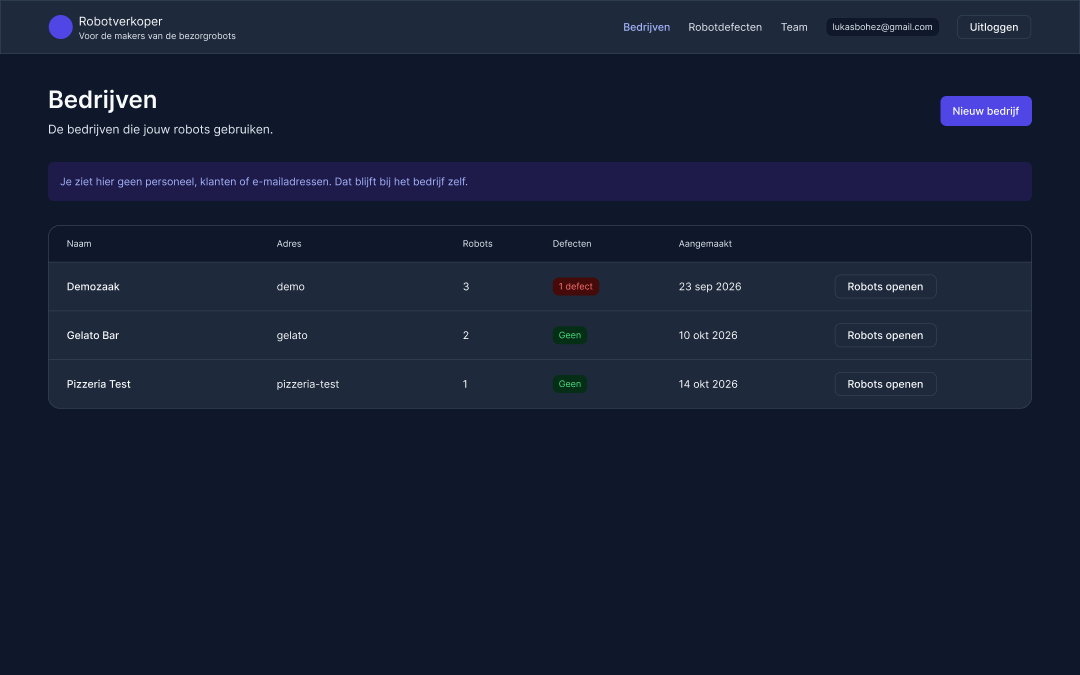
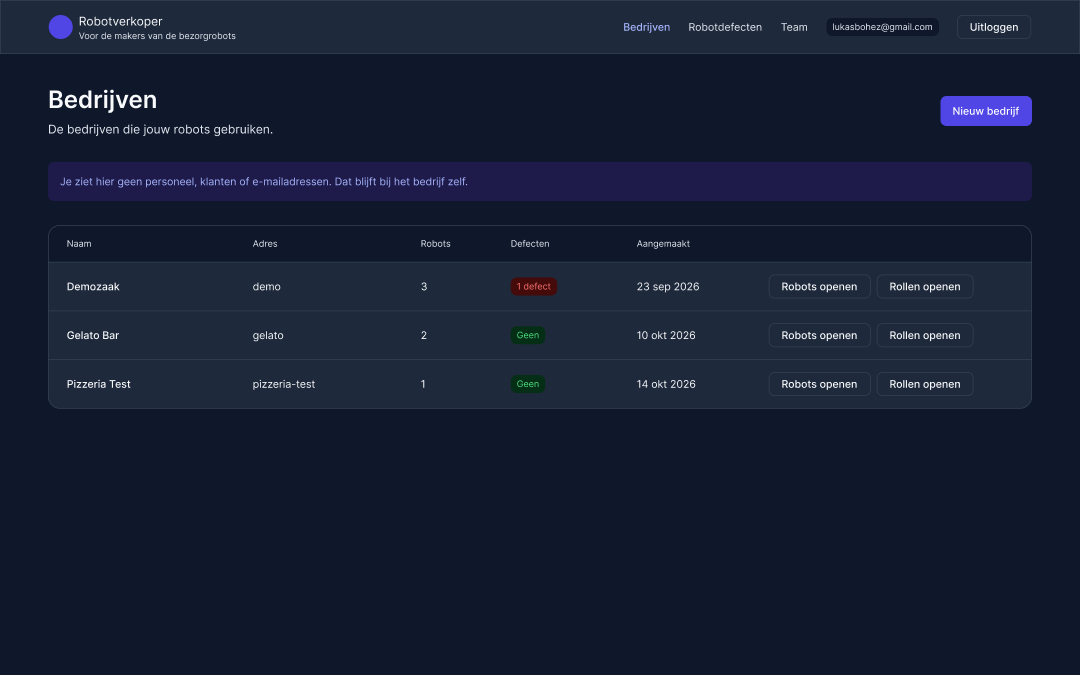
feat(seller-pwa): open the roles of a company from the companies list
The Figma design had a "Robots openen" button per company but no way to the
roles screen. Every company now has a second button, "Rollen openen", in the
table (desktop) and on the card (phone); shown only to a role that may manage
company roles. Design and code now match.

Also: a test that someone who is not logged in sees no menu, e-mail address or
logout (the login screen in Figma has none), and the design exports updated
(login without menu, defect dialog, companies with two buttons, flow text).

diff --git a/seller-pwa/src/views/CompaniesView.vue b/seller-pwa/src/views/CompaniesView.vue
@@ -77,17 +77,30 @@ onMounted(load)
                 </UBadge>
               </td>
               <td class="px-4 py-3">{{ shortDate(company.createdAt, locale) }}</td>
-              <td class="px-4 py-3 text-right">
-                <UButton
-                  :to="{ name: 'company-robots', params: { id: company.id } }"
-                  color="neutral"
-                  variant="outline"
-                  size="sm"
-                  :aria-label="t('companies.openRobots', { name: company.name })"
-                  data-testid="company-robots-link"
-                >
-                  {{ t('companies.open') }}
-                </UButton>
+              <td class="px-4 py-3">
+                <div class="flex justify-end gap-2">
+                  <UButton
+                    :to="{ name: 'company-robots', params: { id: company.id } }"
+                    color="neutral"
+                    variant="outline"
+                    size="sm"
+                    :aria-label="t('companies.openRobots', { name: company.name })"
+                    data-testid="company-robots-link"
+                  >
+                    {{ t('companies.open') }}
+                  </UButton>
+                  <UButton
+                    v-if="me.can('company-roles:manage')"
+                    :to="{ name: 'company-roles', params: { id: company.id } }"
+                    color="neutral"
+                    variant="outline"
+                    size="sm"
+                    :aria-label="t('companies.openRolesOf', { name: company.name })"
+                    data-testid="company-roles-link"
+                  >
+                    {{ t('companies.openRoles') }}
+                  </UButton>
+                </div>
               </td>
             </tr>
           </tbody>
@@ -112,15 +125,30 @@ onMounted(load)
           >
             {{ company.openDefects > 0 ? t('companies.defectCount', company.openDefects) : t('companies.noDefects') }}
           </UBadge>
-          <UButton
-            :to="{ name: 'company-robots', params: { id: company.id } }"
-            color="neutral"
-            variant="outline"
-            block
-            :aria-label="t('companies.openRobots', { name: company.name })"
-          >
-            {{ t('companies.open') }}
-          </UButton>
+          <div class="flex gap-2">
+            <UButton
+              :to="{ name: 'company-robots', params: { id: company.id } }"
+              class="flex-1"
+              color="neutral"
+              variant="outline"
+              block
+              :aria-label="t('companies.openRobots', { name: company.name })"
+            >
+              {{ t('companies.open') }}
+            </UButton>
+            <UButton
+              v-if="me.can('company-roles:manage')"
+              :to="{ name: 'company-roles', params: { id: company.id } }"
+              class="flex-1"
+              color="neutral"
+              variant="outline"
+              block
+              :aria-label="t('companies.openRolesOf', { name: company.name })"
+              data-testid="company-card-roles-link"
+            >
+              {{ t('companies.openRoles') }}
+            </UButton>
+          </div>
         </li>
       </ul>
     </template>

diff --git a/seller-pwa/src/components/__tests__/AppHeader.spec.ts b/seller-pwa/src/components/__tests__/AppHeader.spec.ts
@@ -1,0 +1,73 @@
+import { beforeEach, describe, expect, it, vi } from 'vitest'
+import { mount } from '@vue/test-utils'
+import { piniaWith, routerAt, TECHNICIAN_PERMISSIONS } from '@/test/helpers'
+
+// The session is faked: Firebase is not part of what the header decides
+const session = vi.hoisted(() => ({ user: null as { uid: string; email: string | null } | null }))
+vi.mock('@/stores/auth', () => ({
+  useAuthStore: () => ({
+    get user() {
+      return session.user
+    },
+    get email() {
+      return session.user?.email ?? ''
+    },
+    logout: vi.fn().mockResolvedValue(undefined),
+  }),
+}))
+
+const { i18n } = await import('@/i18n')
+const { default: AppHeader } = await import('../AppHeader.vue')
+
+async function mountHeader() {
+  const router = await routerAt('/')
+  return mount(AppHeader, { global: { plugins: [i18n, piniaWith('admin'), router] } })
+}
+
+describe('AppHeader', () => {
+  beforeEach(() => {
+    i18n.global.locale.value = 'nl'
+    session.user = null
+  })
+
+  // The Figma design of "Inloggen" has no menu, no e-mail badge and no "Uitloggen":
+  // someone who is not logged in must not see them.
+  it('shows no menu, e-mail or logout to someone who is not logged in', async () => {
+    const wrapper = await mountHeader()
+    expect(wrapper.findAll('[data-testid="nav-link"]')).toHaveLength(0)
+    expect(wrapper.find('[data-testid="menu-toggle"]').exists()).toBe(false)
+    expect(wrapper.find('[data-testid="user-email"]').exists()).toBe(false)
+    expect(wrapper.find('[data-testid="logout"]').exists()).toBe(false)
+  })
+
+  it('still shows the brand and the language buttons before logging in', async () => {
+    const wrapper = await mountHeader()
+    expect(wrapper.find('[data-testid="brand"]').exists()).toBe(true)
+    expect(wrapper.find('[data-testid="language-nl"]').exists()).toBe(true)
+  })
+
+  it('shows the menu, the e-mail address and logout once logged in', async () => {
+    session.user = { uid: 'u1', email: 'docent@howest.be' }
+    const wrapper = await mountHeader()
+    expect(wrapper.findAll('[data-testid="nav-link"]').map((link) => link.text())).toEqual([
+      'Bedrijven',
+      'Robotdefecten',
+      'Team',
+    ])
+    expect(wrapper.find('[data-testid="menu-toggle"]').exists()).toBe(true)
+    expect(wrapper.find('[data-testid="user-email"]').text()).toBe('docent@howest.be')
+    expect(wrapper.find('[data-testid="logout"]').exists()).toBe(true)
+  })
+
+  it('hides the Team link from a technician, who may not manage accounts', async () => {
+    session.user = { uid: 'u2', email: 'technieker@fabrikant.example' }
+    const router = await routerAt('/')
+    const wrapper = mount(AppHeader, {
+      global: { plugins: [i18n, piniaWith('technician', TECHNICIAN_PERMISSIONS), router] },
+    })
+    expect(wrapper.findAll('[data-testid="nav-link"]').map((link) => link.text())).toEqual([
+      'Bedrijven',
+      'Robotdefecten',
+    ])
+  })
+})

diff --git a/seller-pwa/src/views/__tests__/CompaniesView.spec.ts b/seller-pwa/src/views/__tests__/CompaniesView.spec.ts
@@ -53,6 +53,25 @@ describe('CompaniesView', () => {
     expect(wrapper.find('[data-testid="company-robots-link"]').attributes('href')).toBe('/companies/t1')
   })
 
+  it('links every company to its roles, in the table and on the phone card', async () => {
+    const wrapper = await mountView()
+    await flushPromises()
+    expect(wrapper.find('[data-testid="company-roles-link"]').attributes('href')).toBe('/companies/t1/roles')
+    expect(wrapper.find('[data-testid="company-roles-link"]').text()).toBe('Rollen openen')
+    expect(wrapper.findAll('[data-testid="company-card-roles-link"]').map((link) => link.attributes('href'))).toEqual([
+      '/companies/t1/roles',
+      '/companies/t2/roles',
+    ])
+  })
+
+  it('does not offer the roles to a role that may not manage them', async () => {
+    const wrapper = await mountView(piniaWith('technician', TECHNICIAN_PERMISSIONS))
+    await flushPromises()
+    expect(wrapper.find('[data-testid="company-robots-link"]').exists()).toBe(true)
+    expect(wrapper.find('[data-testid="company-roles-link"]').exists()).toBe(false)
+    expect(wrapper.find('[data-testid="company-card-roles-link"]').exists()).toBe(false)
+  })
+
   it('offers "new company" only to a role that may create companies', async () => {
     let wrapper = await mountView()
     await flushPromises()

diff --git a/seller-pwa/src/i18n/nl.ts b/seller-pwa/src/i18n/nl.ts
@@ -74,6 +74,8 @@ export const nl = {
     created: 'Aangemaakt',
     open: 'Robots openen',
     openRobots: 'Robots van {name}',
+    openRoles: 'Rollen openen',
+    openRolesOf: 'Rollen van {name}',
   },
   newCompany: {
     title: 'Nieuw bedrijf',

diff --git a/seller-pwa/src/i18n/en.ts b/seller-pwa/src/i18n/en.ts
@@ -76,6 +76,8 @@ export const en: Messages = {
     created: 'Created',
     open: 'Open robots',
     openRobots: 'Robots of {name}',
+    openRoles: 'Open roles',
+    openRolesOf: 'Roles of {name}',
   },
   newCompany: {
     title: 'New company',

diff --git a/design/README.md b/design/README.md
@@ -2,6 +2,8 @@
 
 Het ontwerp is **eerst in Figma gemaakt, daarna pas in code**, zoals de klant vroeg in [#129](https://github.com/afsd-mct/26-ratty-raccoon/issues/129) (*"Werken met Figma, niet meteen in code"*). Het bestand staat in de repo: [`Advanced Fullstack Development.fig`](<../Advanced Fullstack Development.fig>) (open het in Figma met *File → Open file*, of sleep het erin). De afbeeldingen hieronder zijn exports van dat bestand, zodat je het ook op GitHub kunt bekijken.
 
+**Van wie:** dit ontwerp is van **Lukas** en gaat enkel over zijn deel, het verkopersplatform. Er staan geen schermen van Maciej in en er wordt niets over beweerd ([`../../docs/wie-doet-wat.md`](../../docs/wie-doet-wat.md)).
+
 Het bestand heeft drie pagina's: **Inspiratie** (waar het ontwerp op leunt), **Components** (de bouwstenen met varianten) en **Design** (het designsysteem, de flow en alle schermen).
 
 ## De flow
@@ -14,8 +16,8 @@ Elk scherm bestaat voor **desktop (1440 px)** en voor **telefoon (390 px)**. De 
 
 | Nr | Scherm | Wat | Gemaakt in code |
 | --- | --- | --- | --- |
-| 01 | Inloggen | E-mail en wachtwoord, geen Google-login | `seller-pwa/src/views/LoginView.vue` |
-| 02 | Bedrijven | Lijst met robots en defecten per bedrijf, zonder personeel of klantgegevens | `CompaniesView.vue` |
+| 01 | Inloggen | E-mail en wachtwoord, geen Google-login. **Zonder menu, e-mailbadge en "Uitloggen"**: wie nog niet is ingelogd, mag die niet zien | `seller-pwa/src/views/LoginView.vue` |
+| 02 | Bedrijven | Lijst met robots en defecten per bedrijf, zonder personeel of klantgegevens. Per bedrijf twee knoppen: **Robots openen** (scherm 04) en **Rollen openen** (scherm 06, van daaruit **Bekijken als rol**, scherm 08) | `CompaniesView.vue` |
 | 03 | Nieuw bedrijf | Naam, adres en e-mail van de eerste beheerder | `NewCompanyView.vue` |
 | 04 | Robots van een bedrijf | Statusbadge en batterij per robot, robot toekennen (één geïsoleerde etenrobot) | `CompanyRobotsView.vue` |
 | 05 | API-sleutel | Eén keer getoond, en vanzelf naar de robot-app gestuurd | `components/ApiKeyDialog.vue` |
@@ -85,7 +87,7 @@ Elk scherm gebruikt **instances** van deze componenten (meer dan 190 in totaal),
 | **Alert** | `tone` primary, success, warning, danger | ![Alert](component-alert.png) |
 | **Header** | `device` desktop of mobile, `active` het menu-item | zie hierboven |
 | **RoleRow** | `locked` yes, no | ![RoleRow](component-rolerow.png) |
-| **CompanyCard** | `defect` none, some | ![CompanyCard](component-companycard.png) |
+| **CompanyCard** | `defect` none, some. Met twee knoppen: Robots openen en Rollen openen | ![CompanyCard](component-companycard.png) |
 
 ## Inspiratie
 

diff --git a/seller-pwa/README.md b/seller-pwa/README.md
@@ -7,7 +7,7 @@ Eigenaar: **Lukas** (zie [`../README.md`](../README.md)). De app staat buiten de
 ## Wat het doet
 
 - **Inloggen** met e-mail en wachtwoord (Firebase). Geen Google-login: dat vertrouwt de klant niet. Zonder Firebase-waarden: lokale demo-logins in de dev-server.
-- **Bedrijven:** lijst met aantal robots en defecten, nieuw bedrijf maken. Geen personeel, klanten of e-mailadressen in beeld.
+- **Bedrijven:** lijst met aantal robots en defecten, nieuw bedrijf maken, en per bedrijf twee knoppen: **Robots openen** en **Rollen openen** (zo is het rollenscherm bereikbaar, zoals in het Figma-ontwerp). Geen personeel, klanten of e-mailadressen in beeld.
 - **Robots per bedrijf:** lijst met een duidelijke statusbadge (online, offline, defect) en batterij, en een robot aanmaken en toekennen. Eén soort etenrobot: geïsoleerd, dus geen warm, koud of neutraal. De **API-sleutel wordt één keer getoond** en gaat vanzelf naar de robot-app die wacht; kopiëren kan ook.
 - **Defecten:** een defect melden, een robot **vervangen** (nieuwe sleutel, oude stopt) of het defect sluiten.
 - **Accounts en rollen** van een bedrijf: rollen maken uit blokken permissies. **Bekijken als rol**: zien wat een rol ziet, zonder iets te kunnen wijzigen.
@@ -46,7 +46,7 @@ npm run dev
 ## Controleren
 
 ```bash
-npm run test:unit        # Vitest, 105 tests
+npm run test:unit        # Vitest, 111 tests
 npm run type-check       # vue-tsc
 npm run build            # productiebuild + typecheck
 ```
